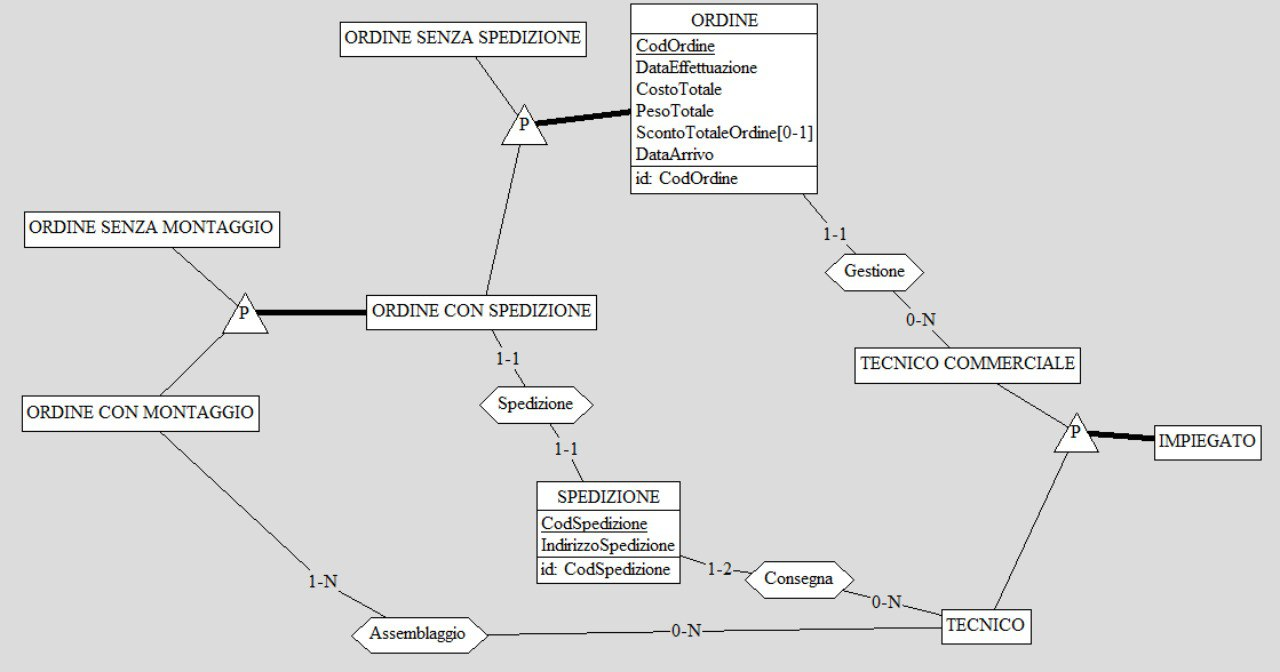
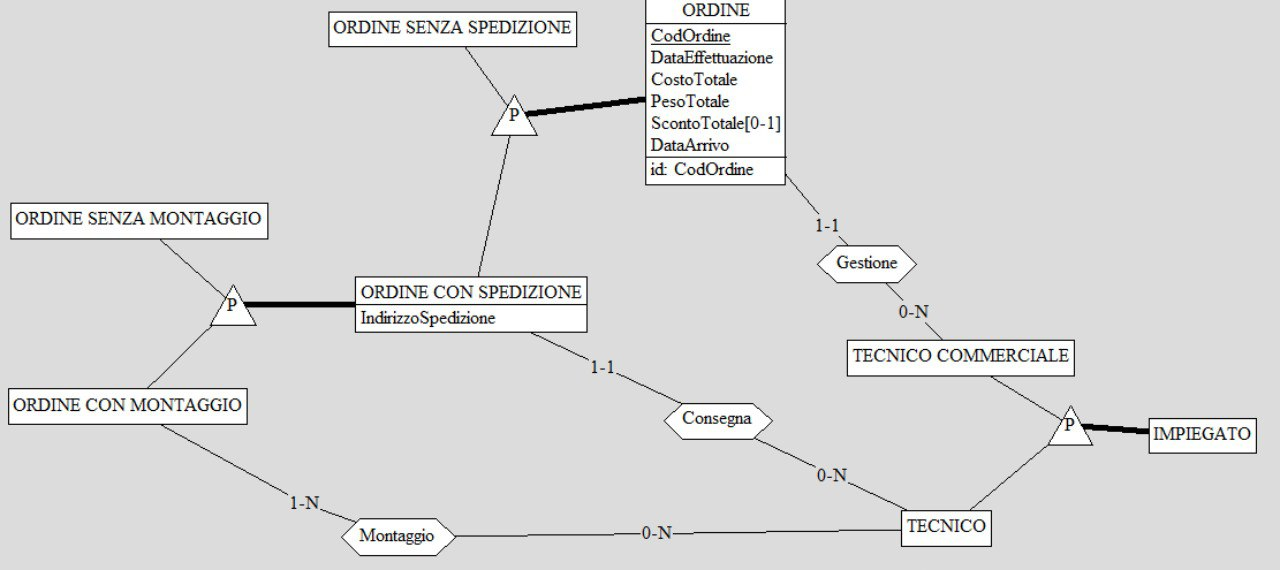
Changed all images

diff --git a/report/report.md b/report/report.md
@@ -89,7 +89,7 @@ Il cliente può anche scegliere se far spedire l'ordine al suo indirizzo o ad un
 ![Personale-Ordine](resources/personaleOrdine.jpg)
 
 L'altra importante relazione in cui c'è **Ordine** è quella tra gli ordini e il **Personale**.  
-I tecnici commerciali gestiscono gli ordini: mettono insieme i vari articoli ordinati, stabiliscono la data di arrivo, gestiscono i soldi in entrata Invece, di spedizione e montaggio se ne occupano i tecnici. 
+I tecnici commerciali gestiscono gli ordini: mettono insieme i vari articoli ordinati, stabiliscono la data di arrivo, gestiscono i soldi in entrata. Invece, di spedizione e montaggio se ne occupano i tecnici. 
 
 ### Negozio-Zona
 
@@ -98,9 +98,15 @@ I tecnici commerciali gestiscono gli ordini: mettono insieme i vari articoli ord
 Ogni **Negozio** della catena viene aperto da un **Acquirente** e gestito da un **Manager**. 
 Ogni negozio è suddiviso in 4 zone: **Shop alimentari**, **Ristoro**, **Esposizione** e **Magazzino**.
  
+ ### Orario
+ 
+ ![Orario](resources/orario.jpg)
+ 
+ L'entità **orario** viene utilizzata per definire l'orario lavorativo dei memebri del personale e l'orario di apertura dei negozi. Ogni orario che viene creato può essere usato da più membri del personale/negozi.
+ 
 ### Alimentari-Ristoro
 
-![Alimentari-Ristoro](resources/alimento.jpeg)
+![Alimentari-Ristoro](resources/alimento.jpg)
 
  Sia nella zona **alimentari** che nella zona **ristoro** vengono venduti degli **alimenti**, nel primo si vendono in confezioni contenenti diverse unità di quell'alimento, nel secondo, essendo una zona bar/bistrot, ogni alimento è venduto singolarmente. 
  
@@ -110,21 +116,21 @@ Ogni negozio è suddiviso in 4 zone: **Shop alimentari**, **Ristoro**, **Esposiz
  
  La zona **esposizioni** di ogni negozio è formata da tante **composizioni** di mobili. Questa zona è pensata per mostrare al cliente, non solo ogni singolo prodotto venduto (in quanto non ci sono prodotti non esposti), ma anche per creare composizioni che siano esteticamente belle e funzionali. Tra le composizioni proposte ci sono infatti diverse proposte di cucina, salotto, bagno, ufficio, camera da letto, ecc ...
  
- ### Prodotto
- 
- ![Prodotto](resources/prodotto.jpeg)
- 
- I **prodotti** venduti in ogni negozio sono divisi in tre categorie (mobili, accessori, elettrodomestici) tramite una gerarchia totale ed esclusiva. 
- Ogni prodotto può avere uno o più **colori** e può essere scontato o meno.
- Il sistema degli **sconti** viene gestito mediante uno **storico sconti** che, per ogni sconto, mantiene il suo periodo di validità annuale.
- Ogni prodotto può avere uno, nessuno o molti sconti; in quanto questi hanno tutti diversi periodi di validità
- 
  ### Prodotto-Magazzino
  
   ![ProdottoMagazzino](resources/prodottoMagazzino.jpg)
   
   In ogni **Negozio** vi è un **Magazzino**; quest'ultimo può contenere o meno tutti i prodotti oppure essere addirittura vuoto.  Ogni **Prodotto** venduto nei negozi della catena infatti, si potrebbe trovare in ogni magazzino, in solo alcuni magazzini (quindi è presente in solo alcuni negozi) o anche in nessuno magazzino se la sua disponibilità è terminata ovunque. 
   In ogni magazzino ci lavorano alcuni tecnici detti magazzinieri.
+ 
+ ### Prodotto
+ 
+ ![Prodotto](resources/prodotto.jpg)
+ 
+ I **prodotti** venduti in ogni negozio sono divisi in tre categorie (mobili, accessori, elettrodomestici) tramite una gerarchia totale ed esclusiva. 
+ Ogni prodotto può avere uno o più **colori** e può essere scontato o meno.
+ Il sistema degli **sconti** viene gestito mediante uno **storico sconti** che, per ogni sconto, mantiene il suo periodo di validità annuale.
+ Ogni prodotto può avere uno, nessuno o molti sconti; in quanto questi hanno tutti diversi periodi di validità
   
    ### Dettaglio Ordine
   
@@ -134,13 +140,7 @@ Ogni **Ordine** è formato da più dettagli ordine. Ci sono due tipi di dettagli
 Ogni dettaglio ordine per prodotto mantiene i dati per un solo prodotto acquistato: quanti pezzi sono stati acquistati di quel prodotto e il costo totale per quel prodotto (ottenuto moltiplicando il prezzo, già scontato se ha uno sconto applicato valido nel periodo di effettuazione dell'ordine, del singolo prodotto per la quantità).
 Lo stesso meccanismo vale per il dettaglio prodotto per composizione.
 
-## Raffinamenti proposti
-
-![Orario](resources/raffinamentiOrario.jpg)
-
-Visto che sia nell'entità **Personale** che nell'entità **Negozio** è presente un attributo orario, si è deciso di trasformare quell'attributo in un'entità . In questo modo ogni Personale ha un suo specifico orario lavorativo, identificato dal CodOrario e, allo stesso tempo ogni Orario può essere affidato a 0-N membri del personale. Allo stesso modo funziona per Negozio: ogni Negozio ha un suo orario di apertura e dall'altra parte, ogni orario di apertura può essere affidato a 0-N negozi.
-
 ## Schema concettuale finale
 
-![SchemaConcettuale1](resources/schemaConcettuale1.jpg)
-![SchemaConcettuale2](resources/schemaConcettuale2.jpg)
+![SchemaConcettuale1](resources/concettualept1.jpg)
+![SchemaConcettuale2](resources/concettualept2.jpg)
